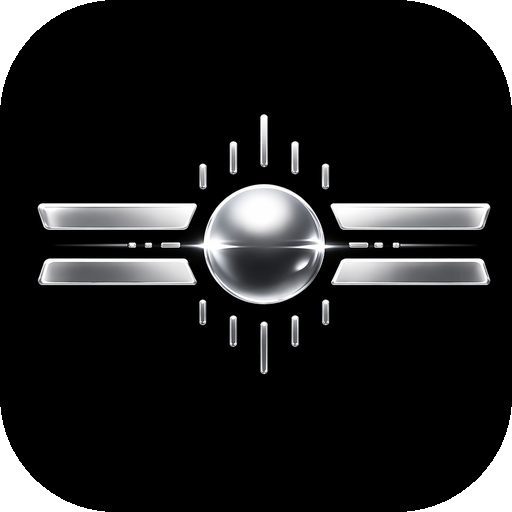
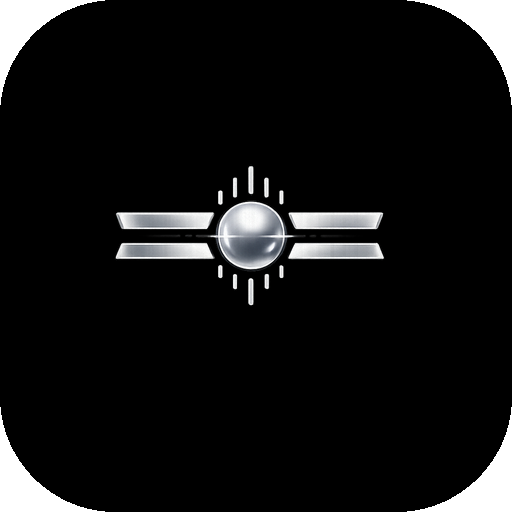
Regenerate brand assets from transparent-background sources
Use the real alpha-channel PNGs from OneDrive (horizontal lockup +
round medallion) so the lockup and mark are true transparent cutouts
rather than re-flattened against grey.

- weightscope_logo_horizontal.png: true transparent lockup
- weightscope_mark.png: mark-only extract (new)
- weightscope_icon_circle_{32,192,512}.png: medallion, transparent
- weightscope_icon_/appicon_{32,192,512}.png: mark on black rounded/squircle
- favicon.ico: 16/32/48/64 from medallion

diff --git a/scripts/gen_logo_from_ref.py b/scripts/gen_logo_from_ref.py
@@ -1,25 +1,27 @@
-"""Generate weightscope assets from the provided reference PNG.
+"""Generate weightscope assets from transparent-background source PNGs.
 
-Takes the full horizontal logo (mark + wordmark) and produces:
-  - weightscope_logo_horizontal.{png}
-  - weightscope_icon_{512,192,32}.png           (square, rounded corners, mark cropped)
-  - weightscope_icon_circle_{512,192,32}.png   (circle mask, mark cropped)
-  - weightscope_appicon_{512,192,32}.png       (squircle, mark cropped)
-  - favicon.ico                                 (16/32/48)
+Source files (in the user's OneDrive):
+  - horizontal logo - transparent background.png  (mark + "Weightscope" wordmark)
+  - round logo - transparent background.png       (circular medallion)
 
-The old handmade SVGs are left in place for reference but not shipped.
+Outputs to ../assets/:
+  - weightscope_logo_horizontal.png                (full lockup, transparent)
+  - weightscope_mark.png                           (mark-only, transparent)
+  - weightscope_icon_{512,192,32}.png              (rounded-square on black)
+  - weightscope_appicon_{512,192,32}.png           (squircle on black)
+  - weightscope_icon_circle_{512,192,32}.png       (medallion, transparent)
+  - favicon.ico                                    (16/32/48/64, from medallion)
 """
 from __future__ import annotations
 
-import io
 from pathlib import Path
 
-from PIL import Image, ImageDraw, ImageFilter
+from PIL import Image, ImageDraw
 
 HERE = Path(__file__).resolve().parent
 ASSETS = HERE.parent / "assets"
-SRC = Path(r"C:/Users/gcox0/.claude/image-cache/3f586108-ef67-42b4-a478-798a418f5a21/4.png")
-FAVICON_SRC = Path(r"C:/Users/gcox0/.claude/image-cache/3f586108-ef67-42b4-a478-798a418f5a21/5.png")
+SRC = Path(r"C:/Users/gcox0/OneDrive/Apps/Weightscope/horizontal logo - transparent background.png")
+FAVICON_SRC = Path(r"C:/Users/gcox0/OneDrive/Apps/Weightscope/round logo - transparent background.png")
 
 ASSETS.mkdir(exist_ok=True)
 
@@ -28,74 +30,48 @@ def save_png(im: Image.Image, path: Path) -> None:
     im.save(path, format="PNG", optimize=True)
 
 
-def find_mark_bbox(im: Image.Image) -> tuple[int, int, int, int]:
-    """Find the square bounding box of just the mark (sphere + wings + rays),
-    excluding the wordmark. We scan the left half of the image for bright
-    (non-black) pixels and square up the bbox."""
-    gray = im.convert("L")
-    w, h = gray.size
-    # Only look at the left ~45% so the wordmark is excluded
-    crop = gray.crop((0, 0, int(w * 0.45), h))
-    bbox = crop.point(lambda p: 255 if p > 30 else 0).getbbox()
-    if bbox is None:
-        raise RuntimeError("Could not detect mark in reference image")
-    x0, y0, x1, y1 = bbox
-    # Square it up, centered on the bbox, with a little breathing room
-    cx = (x0 + x1) / 2
-    cy = (y0 + y1) / 2
-    half = max(x1 - x0, y1 - y0) / 2
-    pad = half * 0.08
-    half += pad
-    return (
-        int(max(0, cx - half)),
-        int(max(0, cy - half)),
-        int(min(w, cx + half)),
-        int(min(h, cy + half)),
-    )
+def alpha_bbox(im: Image.Image) -> tuple[int, int, int, int] | None:
+    """Bounding box of visible (non-transparent) pixels."""
+    return im.split()[-1].point(lambda p: 255 if p > 3 else 0).getbbox()
+
+
+def tight_crop(im: Image.Image, pad_frac: float = 0.0) -> Image.Image:
+    bb = alpha_bbox(im)
+    if bb is None:
+        return im
+    x0, y0, x1, y1 = bb
+    px = int((x1 - x0) * pad_frac)
+    py = int((y1 - y0) * pad_frac)
+    W, H = im.size
+    return im.crop((max(0, x0 - px), max(0, y0 - py), min(W, x1 + px), min(H, y1 + py)))
+
+
+def square_canvas(im: Image.Image) -> Image.Image:
+    """Place image on a transparent square canvas (side = max dim), centered."""
+    w, h = im.size
+    side = max(w, h)
+    out = Image.new("RGBA", (side, side), (0, 0, 0, 0))
+    out.paste(im, ((side - w) // 2, (side - h) // 2), im)
+    return out
 
 
 def rounded_mask(size: int, radius: int) -> Image.Image:
     m = Image.new("L", (size, size), 0)
-    d = ImageDraw.Draw(m)
-    d.rounded_rectangle((0, 0, size - 1, size - 1), radius=radius, fill=255)
+    ImageDraw.Draw(m).rounded_rectangle((0, 0, size - 1, size - 1), radius=radius, fill=255)
     return m
 
 
-def circle_mask(size: int) -> Image.Image:
-    m = Image.new("L", (size, size), 0)
-    d = ImageDraw.Draw(m)
-    d.ellipse((0, 0, size - 1, size - 1), fill=255)
-    return m
-
-
-def tile_background(size: int) -> Image.Image:
-    """Solid black background matching the reference."""
-    return Image.new("RGB", (size, size), (0, 0, 0))
-
-
-def compose_icon(
-    mark: Image.Image,
-    size: int,
-    shape: str,
-    inset_frac: float = 0.14,
-) -> Image.Image:
-    """Place the mark onto a dark background with the requested shape mask."""
-    bg = tile_background(size).convert("RGBA")
-    # Resize mark so it fits within (1 - 2*inset) of the canvas
+def compose_on_black(mark: Image.Image, size: int, shape: str, inset_frac: float = 0.04) -> Image.Image:
+    """Place mark on a solid-black rounded shape (icon/appicon use case)."""
+    bg = Image.new("RGBA", (size, size), (0, 0, 0, 255))
     fit = int(size * (1 - 2 * inset_frac))
     m = mark.copy()
     m.thumbnail((fit, fit), Image.LANCZOS)
-    # Center the mark
-    mx = (size - m.width) // 2
-    my = (size - m.height) // 2
-    bg.alpha_composite(m, (mx, my))
-    # Shape mask
+    bg.alpha_composite(m, ((size - m.width) // 2, (size - m.height) // 2))
     if shape == "square":
         mask = rounded_mask(size, radius=int(size * 0.18))
     elif shape == "squircle":
         mask = rounded_mask(size, radius=int(size * 0.225))
-    elif shape == "circle":
-        mask = circle_mask(size)
     else:
         raise ValueError(shape)
     out = Image.new("RGBA", (size, size), (0, 0, 0, 0))
@@ -103,85 +79,43 @@ def compose_icon(
     return out
 
 
+def extract_mark_from_horizontal(horiz: Image.Image) -> Image.Image:
+    """Crop just the mark (left of the wordmark) using the alpha channel.
+    Scans the left ~40% of the image."""
+    w, h = horiz.size
+    left = horiz.crop((0, 0, int(w * 0.42), h))
+    mark = tight_crop(left)
+    return square_canvas(mark)
+
+
 def main() -> None:
     if not SRC.exists():
-        raise SystemExit(f"Source not found: {SRC}")
+        raise SystemExit(f"Missing source: {SRC}")
+    if not FAVICON_SRC.exists():
+        raise SystemExit(f"Missing source: {FAVICON_SRC}")
 
-    full = Image.open(SRC).convert("RGBA")
+    # ---- horizontal lockup ----
+    horiz = Image.open(SRC).convert("RGBA")
+    horiz = tight_crop(horiz, pad_frac=0.02)
+    save_png(horiz, ASSETS / "weightscope_logo_horizontal.png")
 
-    # 1. Horizontal lockup — save verbatim (also trim tight vertical bbox for compactness)
-    gray = full.convert("L")
-    nb = gray.point(lambda p: 255 if p > 30 else 0).getbbox()
-    if nb:
-        # Add margin
-        x0, y0, x1, y1 = nb
-        pad_x = int((x1 - x0) * 0.02)
-        pad_y = int((y1 - y0) * 0.08)
-        W, H = full.size
-        horizontal = full.crop(
-            (
-                max(0, x0 - pad_x),
-                max(0, y0 - pad_y),
-                min(W, x1 + pad_x),
-                min(H, y1 + pad_y),
-            )
-        )
-    else:
-        horizontal = full
-    save_png(horizontal, ASSETS / "weightscope_logo_horizontal.png")
+    # ---- mark only ----
+    mark = extract_mark_from_horizontal(Image.open(SRC).convert("RGBA"))
+    save_png(mark, ASSETS / "weightscope_mark.png")
 
-    # 1b. Transparent-background version of the horizontal lockup for use on
-    # already-dark pages. Uses luminance as alpha so only the bright chrome
-    # pixels are visible; any pure black bleeds away.
-    hgray = horizontal.convert("L")
-    alpha = hgray.point(lambda p: 0 if p < 6 else min(255, p + 40))
-    transparent = Image.new("RGBA", horizontal.size, (0, 0, 0, 0))
-    transparent.paste(horizontal.convert("RGB"), (0, 0))
-    transparent.putalpha(alpha)
-    save_png(transparent, ASSETS / "weightscope_logo_horizontal_transparent.png")
-
-    # 2. Mark-only square crop for icons
-    bx = find_mark_bbox(full)
-    mark = full.crop(bx)
-    # Ensure truly square (it already should be roughly)
-    m_w, m_h = mark.size
-    side = max(m_w, m_h)
-    canvas = Image.new("RGBA", (side, side), (0, 0, 0, 0))
-    canvas.paste(mark, ((side - m_w) // 2, (side - m_h) // 2))
-    mark = canvas
-
-    # 3. Favicon & circle/appicon source: use the round medallion directly.
-    #    The medallion already has a silver rim + black disc, so we just resize it.
+    # ---- medallion (round icon source) ----
     medallion = Image.open(FAVICON_SRC).convert("RGBA")
-    # Trim to tight square bbox
-    mgray = medallion.convert("L")
-    mbb = mgray.point(lambda p: 255 if p > 10 else 0).getbbox()
-    if mbb:
-        medallion = medallion.crop(mbb)
-    mw, mh = medallion.size
-    mside = max(mw, mh)
-    mcanvas = Image.new("RGBA", (mside, mside), (0, 0, 0, 0))
-    mcanvas.paste(medallion, ((mside - mw) // 2, (mside - mh) // 2))
-    medallion = mcanvas
+    medallion = square_canvas(tight_crop(medallion))
 
-    # 4. Icon variants
+    # ---- icon variants ----
     for sz in (512, 192, 32):
-        # Square icon: mark on solid black with rounded-square crop
         inset = 0.04 if sz >= 192 else 0.02
-        im = compose_icon(mark, sz, "square", inset_frac=inset)
-        save_png(im, ASSETS / f"weightscope_icon_{sz}.png")
-
-        # App icon (squircle): same mark-on-black composition
-        im = compose_icon(mark, sz, "squircle", inset_frac=inset)
-        save_png(im, ASSETS / f"weightscope_appicon_{sz}.png")
-
-        # Circle icon: use the medallion artwork directly
+        save_png(compose_on_black(mark, sz, "square", inset), ASSETS / f"weightscope_icon_{sz}.png")
+        save_png(compose_on_black(mark, sz, "squircle", inset), ASSETS / f"weightscope_appicon_{sz}.png")
         circle_im = medallion.resize((sz, sz), Image.LANCZOS)
         save_png(circle_im, ASSETS / f"weightscope_icon_circle_{sz}.png")
 
-    # 5. Favicon (16/32/48/64) — from the medallion.
-    # Pillow ICO save auto-downsizes the source to all specified sizes, so feed
-    # it a high-res image and let it generate each entry.
+    # ---- favicon ----
     base = medallion.resize((256, 256), Image.LANCZOS)
     base.save(
         ASSETS / "favicon.ico",
